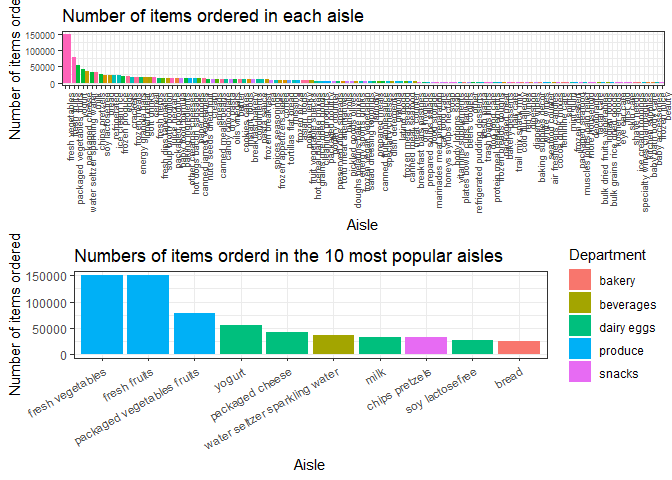
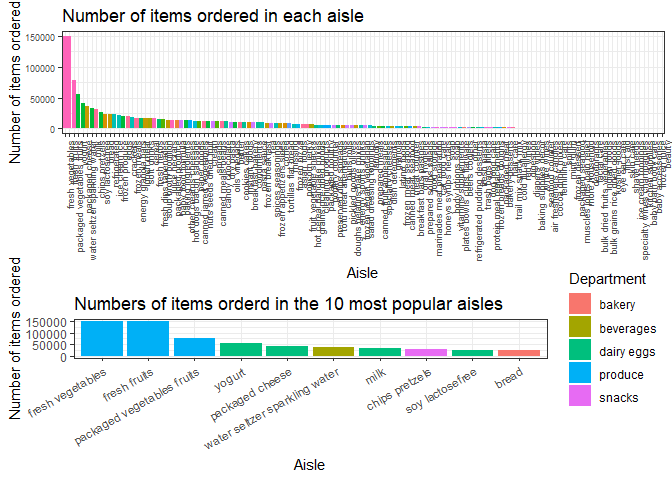
adjust the size of plot in Problem 2

Changed region(s): [[0.0, 0.0, 1.0, 0.875]]

diff --git a/p8105_hw3_jy2944.md b/p8105_hw3_jy2944.md
@@ -313,7 +313,7 @@ top_10_aisle = insta_new[c(1:10), ] %>%
     legend.position = "right"
     )
 
-gridExtra::grid.arrange(aisle_plot, top_10_aisle, heights = c(3, 3), nrow = 2 )
+gridExtra::grid.arrange(aisle_plot, top_10_aisle, heights = c(6, 4), nrow = 2 )
 ```
 
 ![](p8105_hw3_jy2944_files/figure-markdown_github/p2_2-1.png)
